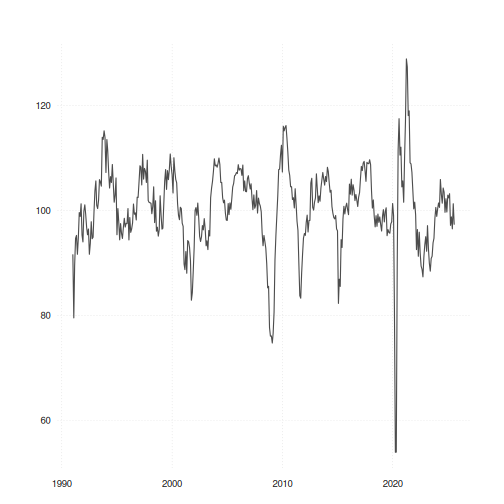
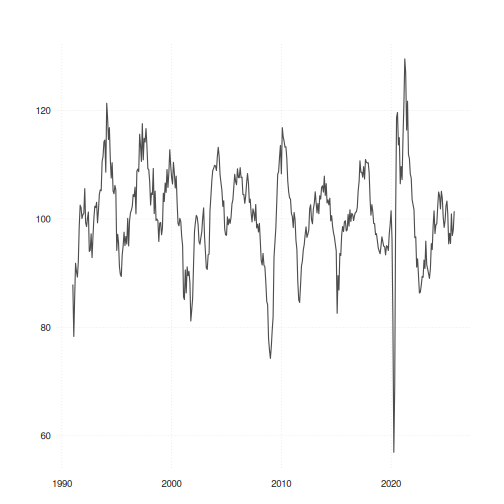
Update README.md via GH Actions

diff --git a/README.md b/README.md
@@ -28,7 +28,7 @@ cat(sprintf("last update on %s.", as.character(Sys.Date())))
 ```
 
 ```
-## last update on 2025-09-25.
+## last update on 2025-11-21.
 ```
 
 
